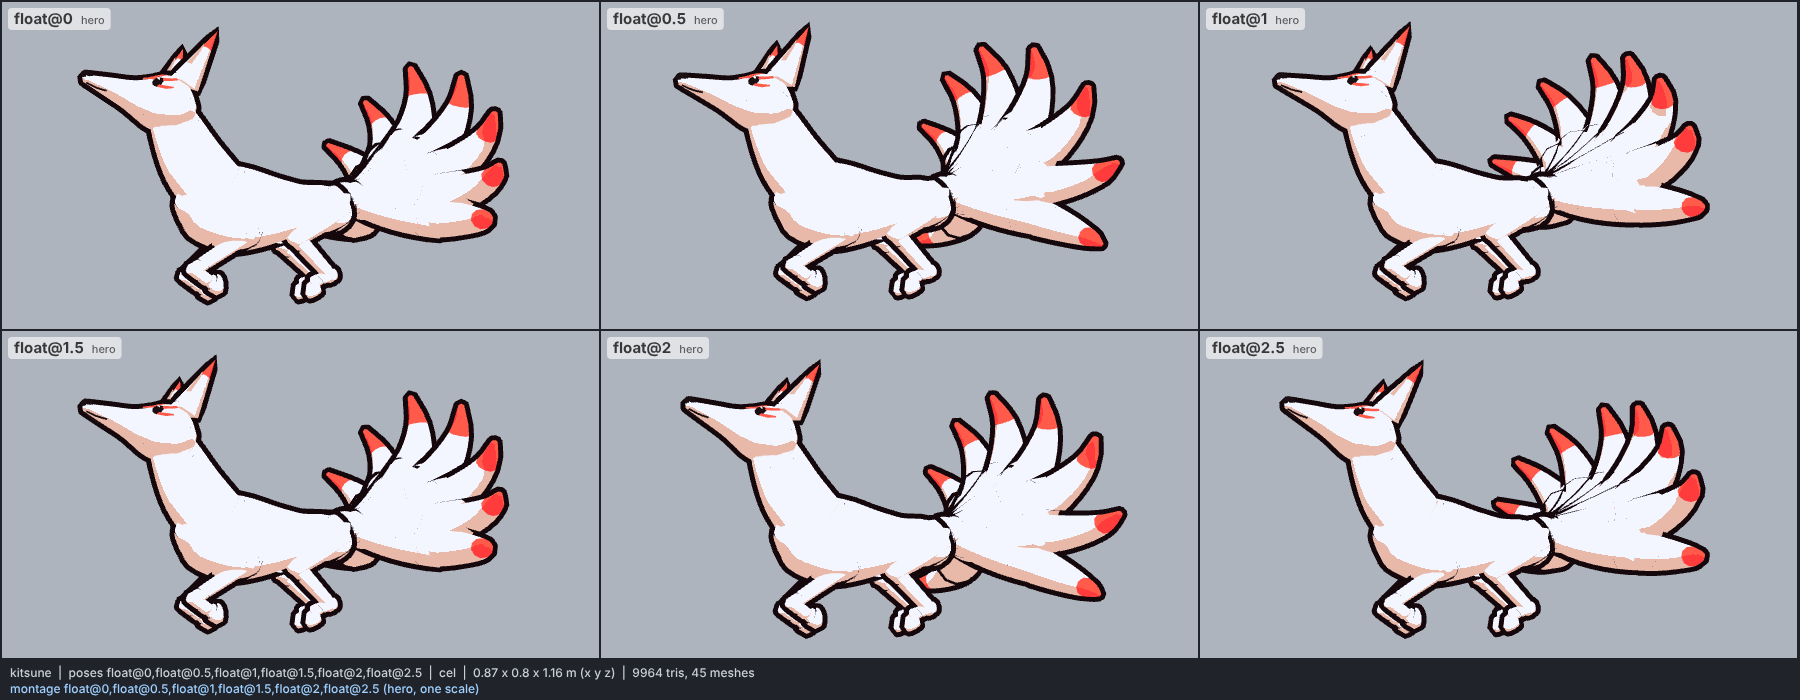
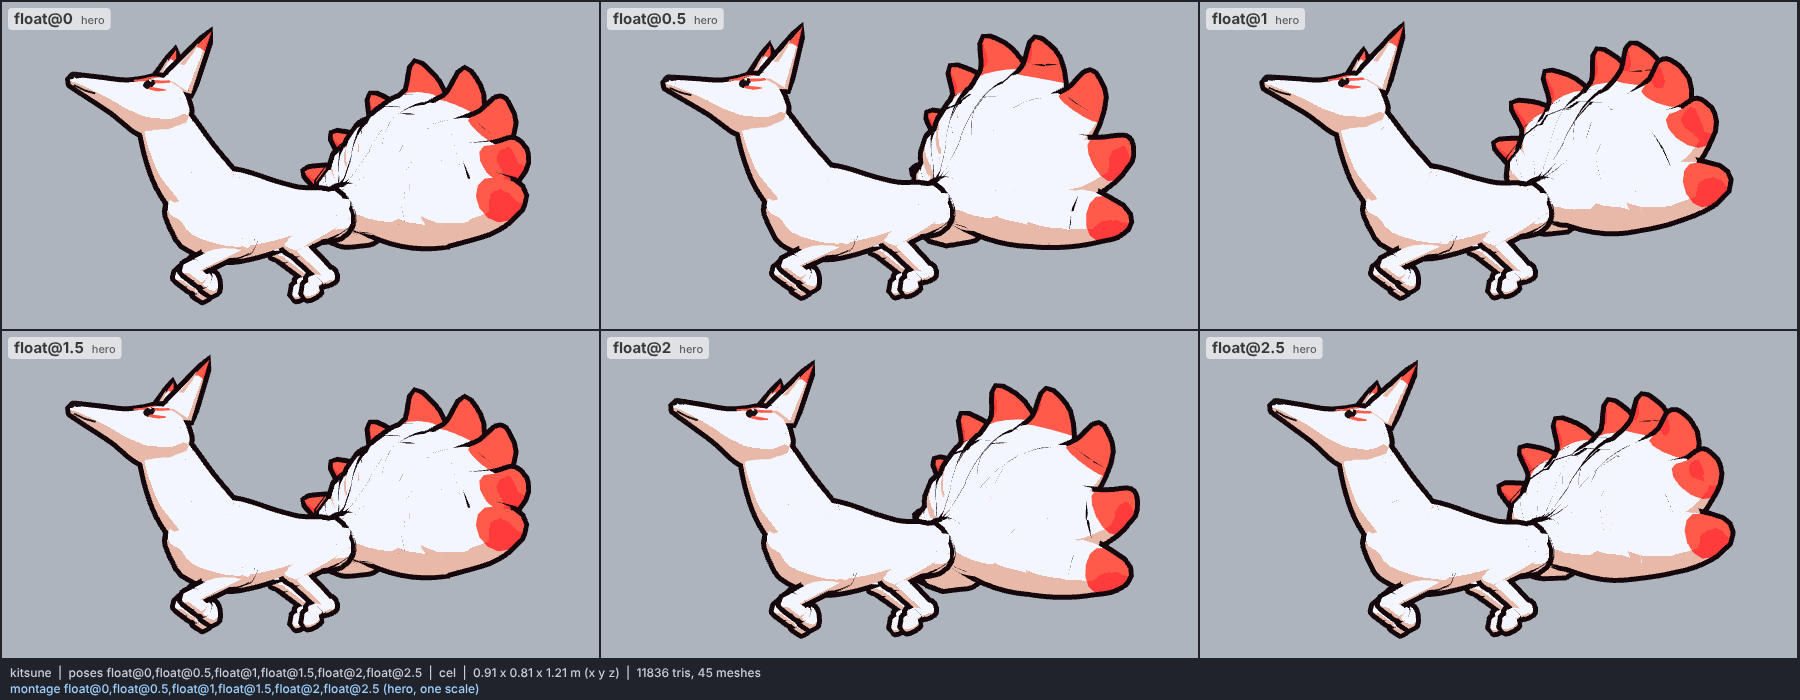
Kitsune: bushy S-curved tails, shorter lower legs
Tails about 2x wider in the middle with a soft rounded taper to the red
tip, a gentle S-curve and a tighter fan so they overlap into one fluffy
mass; staggered sway kept. Legs below the elbow and stifle are 10%
shorter with the body lowered to match; feet stay planted (probe: no
pose or clip frame below y=0). Renders updated.

Claude-Session: https://claude.ai/code/session_01RarBCdt4E1fNHHaUKaW5GL

diff --git a/models/kitsune.js b/models/kitsune.js
@@ -12,8 +12,9 @@
 // axis, so from the front three-quarter they rise behind the fox as a halo.
 //
 // Proportions (H = withers height 0.45 m; a red fox, slightly stylised): trunk 1.15 H point of shoulder to buttock,
-// chest depth 0.45 H, elbow 0.54 H, long slender legs, head 0.44 H long with the muzzle half of it, skull top 1.36 H,
-// ear tips 1.7 H (ears 0.27 H: the anime oversize), tails 0.6 m along the curve, centre tail top ~2 H. Landmarks
+// chest depth 0.45 H, elbow 0.49 H, slender legs, head 0.44 H long with the muzzle half of it, skull top 1.36 H,
+// ear tips 1.7 H (ears 0.27 H: the anime oversize), tails ~0.62 m along an S-curve, 0.24 m across at the widest, centre
+// tail top ~1.95 H; legs below the elbow / stifle compressed to 0.9 (LEGK), the body 2.4 cm lower. Authored landmarks
 // (z, y m): withers (0.11, 0.455), croup (-0.19, 0.44), buttock z -0.27, nose tip z 0.49, chest bottom 0.25,
 // front toes z 0.19, hind toes z -0.17, tail base (-0.255, 0.42).
 //
@@ -207,6 +208,14 @@ export function build(THREE, kit, colors = meta.colors, opts = {}) {
   const flat = (o = {}) => ({ outline: false, threshold: -0.3, ...o });
 
   const body = joint("body", fox, 0, 0.35, 0);
+  // short legs: everything below the elbow / stifle is authored at full length and compressed to LEGK in y about the
+  // ground, and the body (with all it carries) sits LEGD lower. lo(y) maps an authored distal y into the authoring
+  // frame of the joints above (which ends up LEGD above the world once the body is lowered).
+  const LEGK = 0.9, LEGD = 0.024;
+  body.userData.rest.y -= LEGD;
+  body.position.y -= LEGD;
+  const lo = (y) => y * LEGK + LEGD;
+  const short = (g) => g.scale(1, LEGK, 1).translate(0, LEGD, 0);
   const neck = joint("neck", body, 0, 0.42, 0.17);
   const head = joint("head", neck, 0, 0.555, 0.31);
   head.scale.setScalar(1.2);
@@ -312,23 +321,25 @@ export function build(THREE, kit, colors = meta.colors, opts = {}) {
   }
 
   // --- tails: nine fox brushes on one fan; each a planar curve (local: up and back), two segments ---
-  const TAILC = new THREE.CatmullRomCurve3([[0, 0, 0], [0, 0.035, -0.08], [0, 0.11, -0.16], [0, 0.22, -0.215],
-    [0, 0.34, -0.23], [0, 0.45, -0.2], [0, 0.52, -0.13]].map((p) => V(...p)));
-  const TR = (t) => 0.068 * (0.3 * (1 - t) + Math.sin(Math.PI * (0.94 * t) ** 0.75));
+  // a gentle S: out and up from the rump, bowing forward mid-way, back again, the tip curling forward
+  const TAILC = new THREE.CatmullRomCurve3([[0, 0, 0], [0, 0.05, -0.1], [0, 0.15, -0.17], [0, 0.27, -0.185],
+    [0, 0.385, -0.225], [0, 0.48, -0.215], [0, 0.545, -0.15]].map((p) => V(...p)));
+  // a fox brush: slim root, fat middle, soft rounded taper to the tip
+  const TR = (t) => 0.12 * (0.2 * (1 - t) + Math.sin(Math.PI * 0.97 * t ** 0.9) ** 0.85);
   const TMID = 0.5, TMIDP = TAILC.getPointAt(TMID);
   function tailSeg(t0, t1, r0k, steps) {
-    const rings = [], tags = [], seg = 10, X = V(1, 0, 0);
+    const rings = [], tags = [], seg = 12, X = V(1, 0, 0);
     for (let i = 0; i <= steps; i++) {
-      const t = t0 + ((t1 - t0) * i) / steps, P = TAILC.getPointAt(t), T = TAILC.getTangentAt(t), B = T.clone().cross(X).normalize();
+      const t = Math.min(1, t0 + ((t1 - t0) * i) / steps), P = TAILC.getPointAt(t), T = TAILC.getTangentAt(t), B = T.clone().cross(X).normalize();
       const k = r0k + (1 - r0k) * Math.min(1, i / 2);
       const r = Math.max(TR(t) * k, 2e-4);
       rings.push(Array.from({ length: seg }, (_, j) => {
         const a = (j / seg) * TAU;
         return P.clone().addScaledVector(X, Math.cos(a) * r * 0.9).addScaledVector(B, Math.sin(a) * r).toArray();
       }));
-      if (i < steps) for (let j = 0; j < seg; j++) { const g = t + (t1 - t0) / steps / 2 > 0.84 ? 1 : 0; tags.push(g, g); }
+      if (i < steps) for (let j = 0; j < seg; j++) { const g = t + (t1 - t0) / steps / 2 > 0.82 ? 1 : 0; tags.push(g, g); }
     }
-    const geo = skin(rings, { dome: 0.6 });
+    const geo = skin(rings, { dome: 0.8 });
     const ix = geo.index.array, bk = [[], []];
     for (let k = 0; k < ix.length / 3; k++) bk[tags[k] ?? (t1 > 0.9 ? 1 : 0)].push(ix[3 * k], ix[3 * k + 1], ix[3 * k + 2]);
     geo.setIndex(bk.flat());
@@ -348,8 +359,8 @@ export function build(THREE, kit, colors = meta.colors, opts = {}) {
     const fan = joint("fan" + i, tailBase, ...P0);
     const tr = joint("tail" + i, fan, ...P0);
     const tm = joint("tail" + i + "b", tr, P0[0], P0[1] + TMIDP.y, P0[2] + TMIDP.z);
-    const a = tailSeg(0, TMID + 0.06, 1, 9).translate(...P0);
-    const b = tailSeg(TMID - 0.04, 1, 0.8, 11).translate(...P0);
+    const a = tailSeg(0, TMID + 0.06, 1, 10).translate(...P0);
+    const b = tailSeg(TMID - 0.04, 1, 0.8, 15).translate(...P0);
     const ma = part(tr, a, C.fur, C.furShade);
     const mb = part(tm, b, C.fur, C.furShade);
     ma.material = tailMat(); mb.material = tailMat();
@@ -371,23 +382,23 @@ export function build(THREE, kit, colors = meta.colors, opts = {}) {
     // fore: shoulder -> elbow -> wrist -> paw
     const sh = joint("shoulder" + side, body, X, 0.36, 0.2);
     const el = joint("elbow" + side, sh, X, 0.245, 0.13);
-    const wr = joint("wrist" + side, el, X, 0.075, 0.148);
-    const pw = joint("paw" + side, wr, X, 0.03, 0.152);
+    const wr = joint("wrist" + side, el, X, lo(0.075), 0.148);
+    const pw = joint("paw" + side, wr, X, lo(0.03), 0.152);
     fur(sh, limb(X, [0.215, 0.41], [0.133, 0.236], [0.032, 0.025], [0.036, 0.027], [0.024, 0.025], { bulge: 0.12 }));
-    fur(el, limb(X, [0.131, 0.25], [0.148, 0.068], [0.02, 0.016], [0.021, 0.015], [0.019, 0.016]));
-    fur(wr, limb(X, [0.147, 0.085], [0.152, 0.03], [0.015, 0.015], [0.014, 0.014], [0.016, 0.017]));
-    fur(pw, paw(X, 0.162, 0.028, 0.018));
+    fur(el, short(limb(X, [0.131, 0.25], [0.148, 0.068], [0.02, 0.016], [0.021, 0.015], [0.019, 0.016])));
+    fur(wr, short(limb(X, [0.147, 0.085], [0.152, 0.03], [0.015, 0.015], [0.014, 0.014], [0.016, 0.017])));
+    fur(pw, short(paw(X, 0.162, 0.028, 0.018)));
     // hind: hip -> stifle -> hock -> foot
     const hp = joint("hip" + side, body, HX, 0.37, -0.17);
     const st = joint("stifle" + side, hp, HX, 0.235, -0.11);
-    const ho = joint("hock" + side, st, HX, 0.095, -0.215);
-    const ft = joint("foot" + side, ho, HX, 0.03, -0.205);
+    const ho = joint("hock" + side, st, HX, lo(0.095), -0.215);
+    const ft = joint("foot" + side, ho, HX, lo(0.03), -0.205);
     fur(hp, limb(HX, [-0.185, 0.42], [-0.115, 0.228], [0.047, 0.027], [0.057, 0.025], [0.03, 0.025], { bulge: 0.1 }));
-    fur(st, limb(HX, [-0.11, 0.244], [-0.216, 0.088], [0.021, 0.017], [0.025, 0.018], [0.021, 0.017]));
-    fur(ho, limb(HX, [-0.214, 0.105], [-0.205, 0.03], [0.016, 0.015], [0.016, 0.015], [0.016, 0.017]));
-    fur(ft, paw(HX, -0.196, 0.026, 0.017));
-    LEGS[side + "F"] = { A: sh, B: el, Cj: wr, P: pw, toe: [0.19, 0] };
-    LEGS[side + "H"] = { A: hp, B: st, Cj: ho, P: ft, toe: [-0.17, 0] };
+    fur(st, short(limb(HX, [-0.11, 0.244], [-0.216, 0.088], [0.021, 0.017], [0.025, 0.018], [0.021, 0.017])));
+    fur(ho, short(limb(HX, [-0.214, 0.105], [-0.205, 0.03], [0.016, 0.015], [0.016, 0.015], [0.016, 0.017])));
+    fur(ft, short(paw(HX, -0.196, 0.026, 0.017)));
+    LEGS[side + "F"] = { A: sh, B: el, Cj: wr, P: pw, toe: [0.19, LEGD] };
+    LEGS[side + "H"] = { A: hp, B: st, Cj: ho, P: ft, toe: [-0.17, LEGD] };
   }
   for (const L of Object.values(LEGS)) {
     L.u1 = [L.B.position.y, L.B.position.z];
@@ -440,11 +451,11 @@ export function build(THREE, kit, colors = meta.colors, opts = {}) {
   const REST_FEET = { LF: [0.19, 0, 0, 0], RF: [0.19, 0, 0, 0], LH: [-0.17, 0, 0, 0], RH: [-0.17, 0, 0, 0] };
   const SPREAD = (deg) => (NT === 1 ? 0 : deg * Math.min(1, 0.45 + 0.55 * (NT - 1) / 8));
   const POSES = {
-    rest: { tailBase: [-12, 0, 0], spread: 72, tail: (u) => [-6 * (1 - Math.abs(u)), 0, 6 * Math.abs(u), 0] },
+    rest: { tailBase: [-12, 0, 0], spread: 64, tail: (u) => [-6 * (1 - Math.abs(u)), 0, 6 * Math.abs(u), 0] },
     // sit: body pitched up 30 about the hips, haunches down, hind paws ahead of the folded hocks, forelegs straight;
     // tails swept back behind the haunches and fanned low
     sit: {
-      body: [-0.13, -42, 0.03], neck: [24, 0, 0], head: [18, 0, 0], tailBase: [26, 0, 0], spread: 80,
+      body: [-0.102, -42, 0.03], neck: [24, 0, 0], head: [18, 0, 0], tailBase: [26, 0, 0], spread: 66,
       tail: (u) => [-4, 0, 10 * Math.abs(u), 0],
       feet: { LF: [0.185, 0, 0, 2], RF: [0.185, 0, 0, 2], LH: [-0.04, 0, 0, -80], RH: [-0.04, 0, 0, -80] },
     },
@@ -487,7 +498,7 @@ export function build(THREE, kit, colors = meta.colors, opts = {}) {
     for (const k of ["neck", "head", "earL", "earR", "tailBase"]) if (F[k]) joints[k].rotation.set(F[k][0] * D, F[k][1] * D, F[k][2] * D);
     const br = F.breath ?? 0;
     bodyMesh.scale.set(1 + 0.6 * br, 1 + br, 1);
-    const sp = SPREAD(F.spread ?? 72);
+    const sp = SPREAD(F.spread ?? 64);
     TAILS.forEach((T, i) => {
       const r = typeof F.tail === "function" ? F.tail(T.u, i) : F.tail ?? [0, 0, 0, 0];
       T.fan.rotation.set(0, 0, -T.u * sp * D);
@@ -515,7 +526,7 @@ export function build(THREE, kit, colors = meta.colors, opts = {}) {
         body: [0.0015 * b, -0.6 * b, 0], breath: 0.012 * b,
         neck: [0.8 * b, 0, 0], head: [-0.5 * b, 8 * syc(1, ph, 0.15), 3 * syc(1, ph, 0.2)],
         earL: [-20 * tw, 0, 10 * tw], earR: [-20 * tw2, 0, -10 * tw2],
-        tailBase: [-12 + 1.5 * b, 0, 0], spread: 72,
+        tailBase: [-12 + 1.5 * b, 0, 0], spread: 64,
         tail: (u, i) => {
           const lag = (i / Math.max(1, NT)) * 0.9;
           return [-6 * (1 - Math.abs(u)) + 3 * syc(2, ph, lag), 7 * syc(2, ph, lag), 6 * Math.abs(u) + 9 * syc(2, ph, lag + 0.1),
@@ -530,7 +541,7 @@ export function build(THREE, kit, colors = meta.colors, opts = {}) {
         lift: 0.09 + 0.012 * b, body: [0, -4 + 1.5 * b, 0], breath: 0.01 * w,
         neck: [-4, 0, 0], head: [-6 + 2 * b, 0, 2 * syc(1, ph, 0.2)],
         earL: [-6, 0, 4 * w], earR: [-6, 0, -4 * w],
-        tailBase: [-4 + 2 * b, 0, 0], spread: 100,
+        tailBase: [-4 + 2 * b, 0, 0], spread: 88,
         tail: (u, i) => {
           const lag = Math.abs(u) * 0.25;
           return [-10 + 4 * syc(2, ph, lag), 6 * u * syc(2, ph, lag), 4 + 10 * syc(2, ph, lag + 0.12), 6 * u * syc(2, ph, lag + 0.1)];
@@ -554,7 +565,7 @@ export function build(THREE, kit, colors = meta.colors, opts = {}) {
       head: run ? [-6 - 6 * syc(1, ph, 0.25), 0, 0] : [-1.5 - 1.5 * cyc(4, ph, 0.15), 2 * syc(1, ph), 0],
       earL: run ? [-30, 0, -6] : [-3, 0, 0], earR: run ? [-30, 0, 6] : [-3, 0, 0],
       // tails: streaming back and narrower in the run, a trailing wave in both gaits
-      tailBase: run ? [-48 + 4 * cyc(1, ph), 0, 0] : [-22, 0, 0], spread: run ? 46 : 60,
+      tailBase: run ? [-48 + 4 * cyc(1, ph), 0, 0] : [-22, 0, 0], spread: run ? 36 : 50,
       tail: (u, i) => {
         const lag = Math.abs(u) * 0.2;
         return run ? [-6 + 6 * syc(1, ph, lag), 3 * syc(1, ph, lag), -18 + 10 * syc(1, ph, lag + 0.15), 0]
